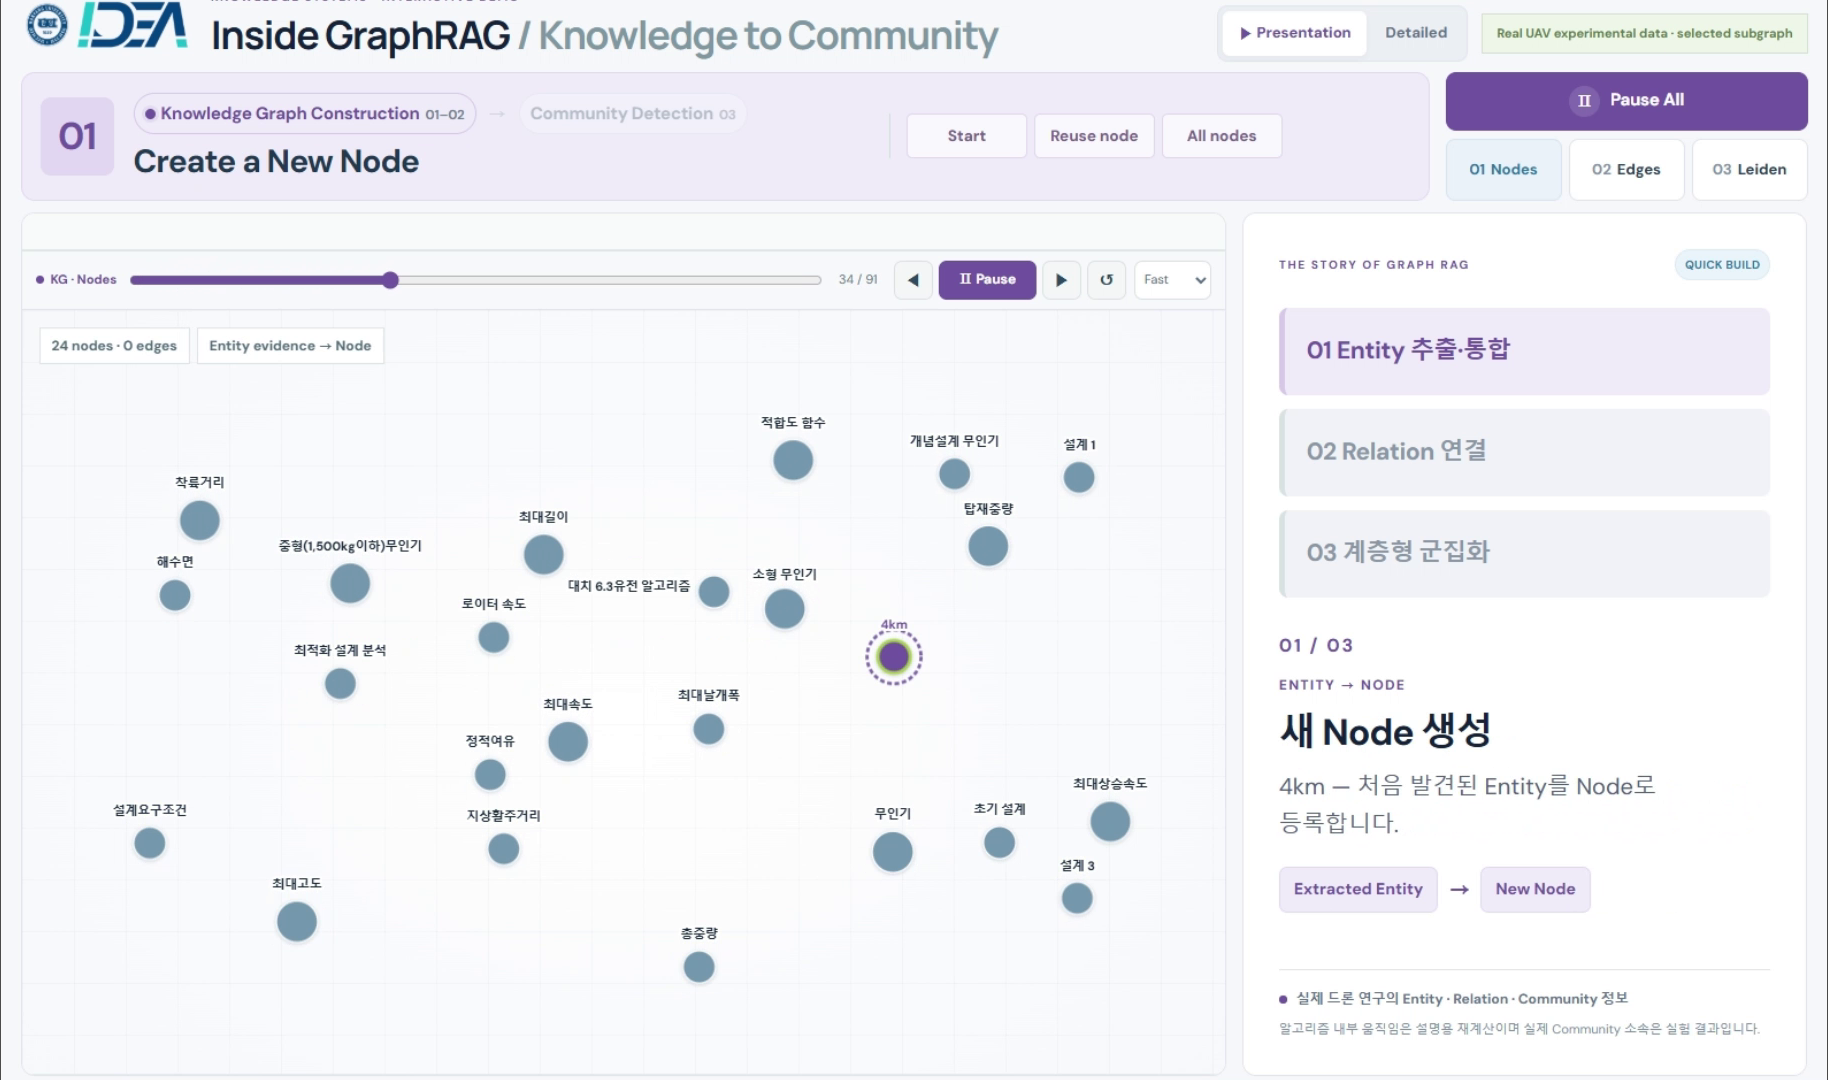
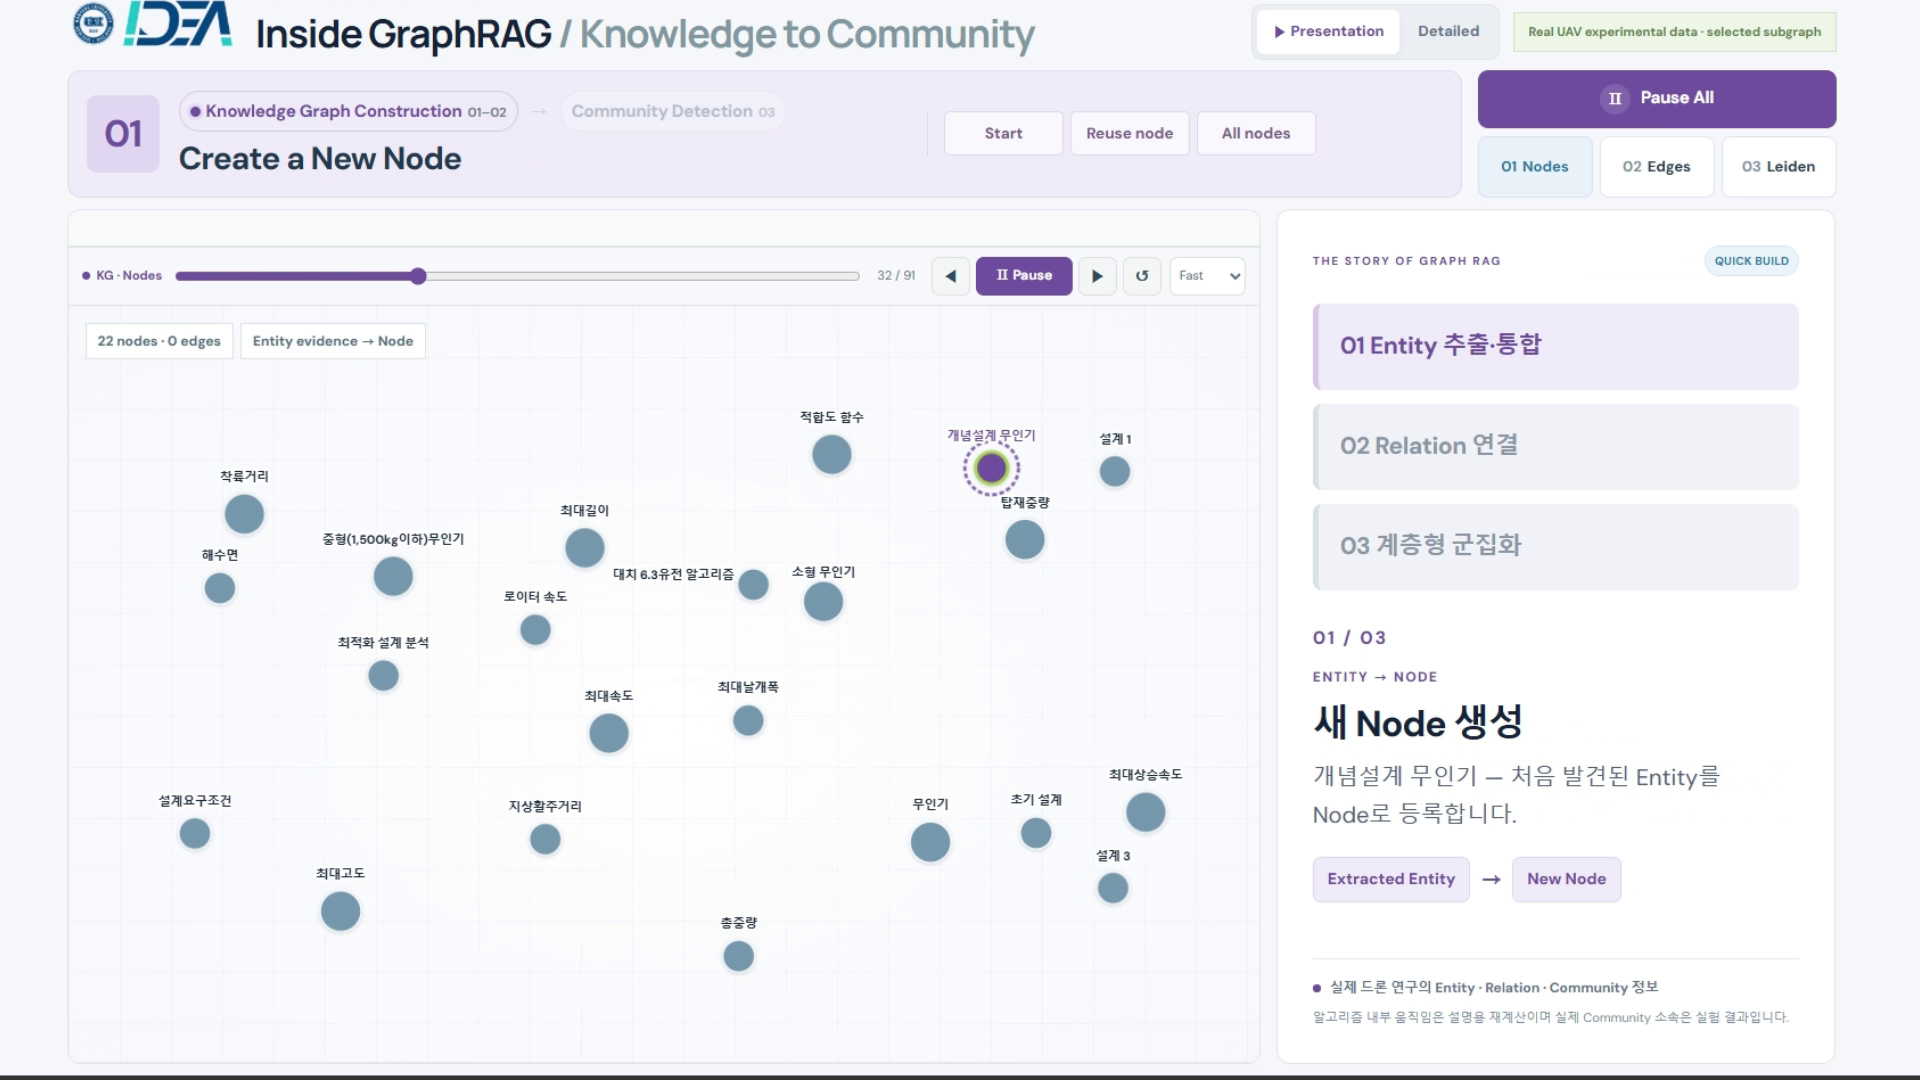
Restore 16:9 Home video frames for the replacement recordings

diff --git a/index.html b/index.html
@@ -4,7 +4,7 @@
 <title>Dong-u Shin · IDEA LAB</title><link rel="icon" type="image/png" sizes="64x64" href="assets/images/favicon-hanyang.png"/>
 <link rel="shortcut icon" href="assets/images/favicon.ico" type="image/x-icon"/>
 <link rel="apple-touch-icon" sizes="180x180" href="assets/images/apple-touch-icon.png"/>
-<link rel="stylesheet" href="assets/css/style.css?v=20261106-comments"/><script src="assets/js/main.js?v=20261106-comments" defer></script><link rel="stylesheet" href="assets/css/site-theme.css?v=20261106-comments"/><script src="assets/js/site-shell.js?v=20261106-inline-logo" defer></script></head>
+<link rel="stylesheet" href="assets/css/style.css?v=20261107-video-16x9"/><script src="assets/js/main.js?v=20261106-comments" defer></script><link rel="stylesheet" href="assets/css/site-theme.css?v=20261106-comments"/><script src="assets/js/site-shell.js?v=20261106-inline-logo" defer></script></head>
 <body data-page="home" class="site-v2 "><a class="skip-link" href="#main">Skip to content</a>
 <header class="site-header unified-header"><div class="unified-header-inner"><a class="unified-brand" href="index.html" aria-label="Dong-u Shin home"><img src="assets/images/idea-logo-white.png" alt="IDEA LAB"/><span>Dong-u Shin<small>ENGINEERING INTELLIGENCE</small></span></a><button class="unified-menu-toggle" type="button" aria-expanded="false" aria-controls="primary-nav" aria-label="Open navigation"><svg viewBox="0 0 24 24" width="22" height="22" fill="none" stroke="currentColor" stroke-width="1.5" aria-hidden="true"><path d="M4 6h16M4 12h16M4 18h16"/></svg></button><nav class="unified-nav" id="primary-nav" aria-label="Main navigation"><a href="index.html" aria-current="page">Home</a><a href="about.html">About</a><a href="research.html">Research</a><a href="publications.html">Publications</a><a href="news.html">News</a></nav></div></header>
 <main id="main"><section class="hero home-hero"><div class="hero-tech-bg" aria-hidden="true"><img src="assets/images/bg-wireframe-drone.svg" class="hero-float hero-drone" alt=""/><img src="assets/images/bg-data-ai-kg.svg" class="hero-float hero-knowledge" alt=""/><div class="hero-glow hero-glow-1"></div><div class="hero-glow hero-glow-2"></div></div><div class="container hero-grid">
@@ -15,10 +15,10 @@
 </div></div></section>
 <section class="home-focus" aria-labelledby="home-focus-title"><div class="container"><div class="home-focus-heading"><h2 id="home-focus-title">Research Focus</h2></div><div class="home-focus-grid" id="home-research-grid"><p>Loading research focus…</p></div></div></section>
 <section class="section home-demo" aria-labelledby="home-demo-title"><div class="container"><div class="research-demo">
-<div class="research-demo-preview home-demo-video" style="--demo-video-ratio: 1828 / 1080"><video controls autoplay muted loop playsinline preload="metadata" poster="assets/images/graphrag-demo.png?v=20261106-video-fit" aria-label="Inside GraphRAG demonstration video"><source src="assets/videos/graphrag-demo.mp4?v=20261106-video-fit" type="video/mp4"/>Your browser does not support embedded video. <a href="assets/videos/graphrag-demo.mp4?v=20261106-video-fit">Open the demo video</a>.</video></div>
+<div class="research-demo-preview home-demo-video"><video controls autoplay muted loop playsinline preload="metadata" poster="assets/images/graphrag-demo.png?v=20261107-video-16x9" aria-label="Inside GraphRAG demonstration video"><source src="assets/videos/graphrag-demo.mp4?v=20261107-video-16x9" type="video/mp4"/>Your browser does not support embedded video. <a href="assets/videos/graphrag-demo.mp4?v=20261107-video-16x9">Open the demo video</a>.</video></div>
 <div class="research-demo-copy"><h2 id="home-demo-title">Inside GraphRAG</h2><div class="demo-process" aria-label="Community detection transforms a knowledge graph into communities"><span>Knowledge Graph</span><span class="demo-process-arrow" aria-hidden="true">→</span><strong>Communities</strong><small>Community Detection</small></div><p>Discover how a drone knowledge graph is organized into hierarchical communities. Watch the process, then explore each step in the interactive demo.</p><a class="home-demo-button" href="demos/graphrag/index.html?v=20261106-inline-logo" target="_blank" rel="noopener noreferrer" aria-label="Open Demo (opens in a new tab)">Open Demo<svg viewBox="0 0 20 20" width="16" height="16" fill="none" stroke="currentColor" stroke-width="1.5" stroke-linecap="round" stroke-linejoin="round" aria-hidden="true" focusable="false"><path d="M11 3h6v6M17 3l-8 8M8 4H4a1 1 0 0 0-1 1v11a1 1 0 0 0 1 1h11a1 1 0 0 0 1-1v-4"/></svg></a></div>
 </div></div></section><section class="section home-demo comparison-demo" id="rag-comparison" aria-labelledby="comparison-demo-title"><div class="container"><div class="research-demo">
-<div class="research-demo-preview home-demo-video" style="--demo-video-ratio: 1920 / 964"><video controls autoplay muted loop playsinline preload="metadata" poster="assets/images/rag-comparison-demo.jpg?v=20261106-video-fit" aria-label="Vector RAG vs GraphRAG comparison demonstration video"><source src="assets/videos/rag-comparison-demo.mp4?v=20261106-video-fit" type="video/mp4"/>Your browser does not support embedded video. <a href="assets/videos/rag-comparison-demo.mp4?v=20261106-video-fit">Open the comparison video</a>.</video></div>
+<div class="research-demo-preview home-demo-video"><video controls autoplay muted loop playsinline preload="metadata" poster="assets/images/rag-comparison-demo.jpg?v=20261107-video-16x9" aria-label="Vector RAG vs GraphRAG comparison demonstration video"><source src="assets/videos/rag-comparison-demo.mp4?v=20261107-video-16x9" type="video/mp4"/>Your browser does not support embedded video. <a href="assets/videos/rag-comparison-demo.mp4?v=20261107-video-16x9">Open the comparison video</a>.</video></div>
 <div class="research-demo-copy"><h2 id="comparison-demo-title">Vector RAG <span class="comparison-title-vs">vs</span> GraphRAG</h2>
 <div class="demo-process comparison-process" aria-label="Compare vector retrieval and graph-based global search"><span>Vector RAG</span><span class="demo-process-arrow" aria-hidden="true">vs</span><strong>GraphRAG</strong><small>Local &amp; Global Questions</small></div>
 <p>One question, two retrieval approaches. Compare how vector similarity and community-based global search retrieve evidence and shape an answer.</p>

diff --git a/assets/css/style.css b/assets/css/style.css
@@ -427,7 +427,7 @@
 .demo-process > strong{background:#e8f6f1;border:1px solid #d8eee5;color:#006e64}
 .demo-process-arrow { font-size: 25px; color: #7392ae; }
 .demo-process small { grid-column:1 / -1;justify-self:center;padding:4px 11px;border:1px solid #dcecf7;border-radius:20px;background:#eaf4fb;font-size:10px;font-weight:700;letter-spacing:.6px;color:#17638d; }
-.home-demo-video video { display: block; width: 100%; height: auto; aspect-ratio: var(--demo-video-ratio, 16 / 9); object-fit: cover; object-position: center; background: #111d30; }
+.home-demo-video video { display: block; width: 100%; height: auto; aspect-ratio: 16 / 9; object-fit: contain; object-position: center; background: #111d30; }
 .home-demo-button { display: inline-flex; align-items: center; justify-content: center; gap: 10px; min-height: 44px; padding: 12px 18px; border: 1px solid #644697; border-radius: 8px; background: #644697; color: var(--white); font: 700 12px/1.4 'Manrope', sans-serif; }
 .home-demo-button:hover { background: #52357f; border-color:#52357f; }
 @media(max-width:360px){.demo-process{gap:8px 6px}.demo-process > span:not(.demo-process-arrow),.demo-process > strong{font-size:13px;padding:12px 6px}.demo-process-arrow{font-size:22px}}
